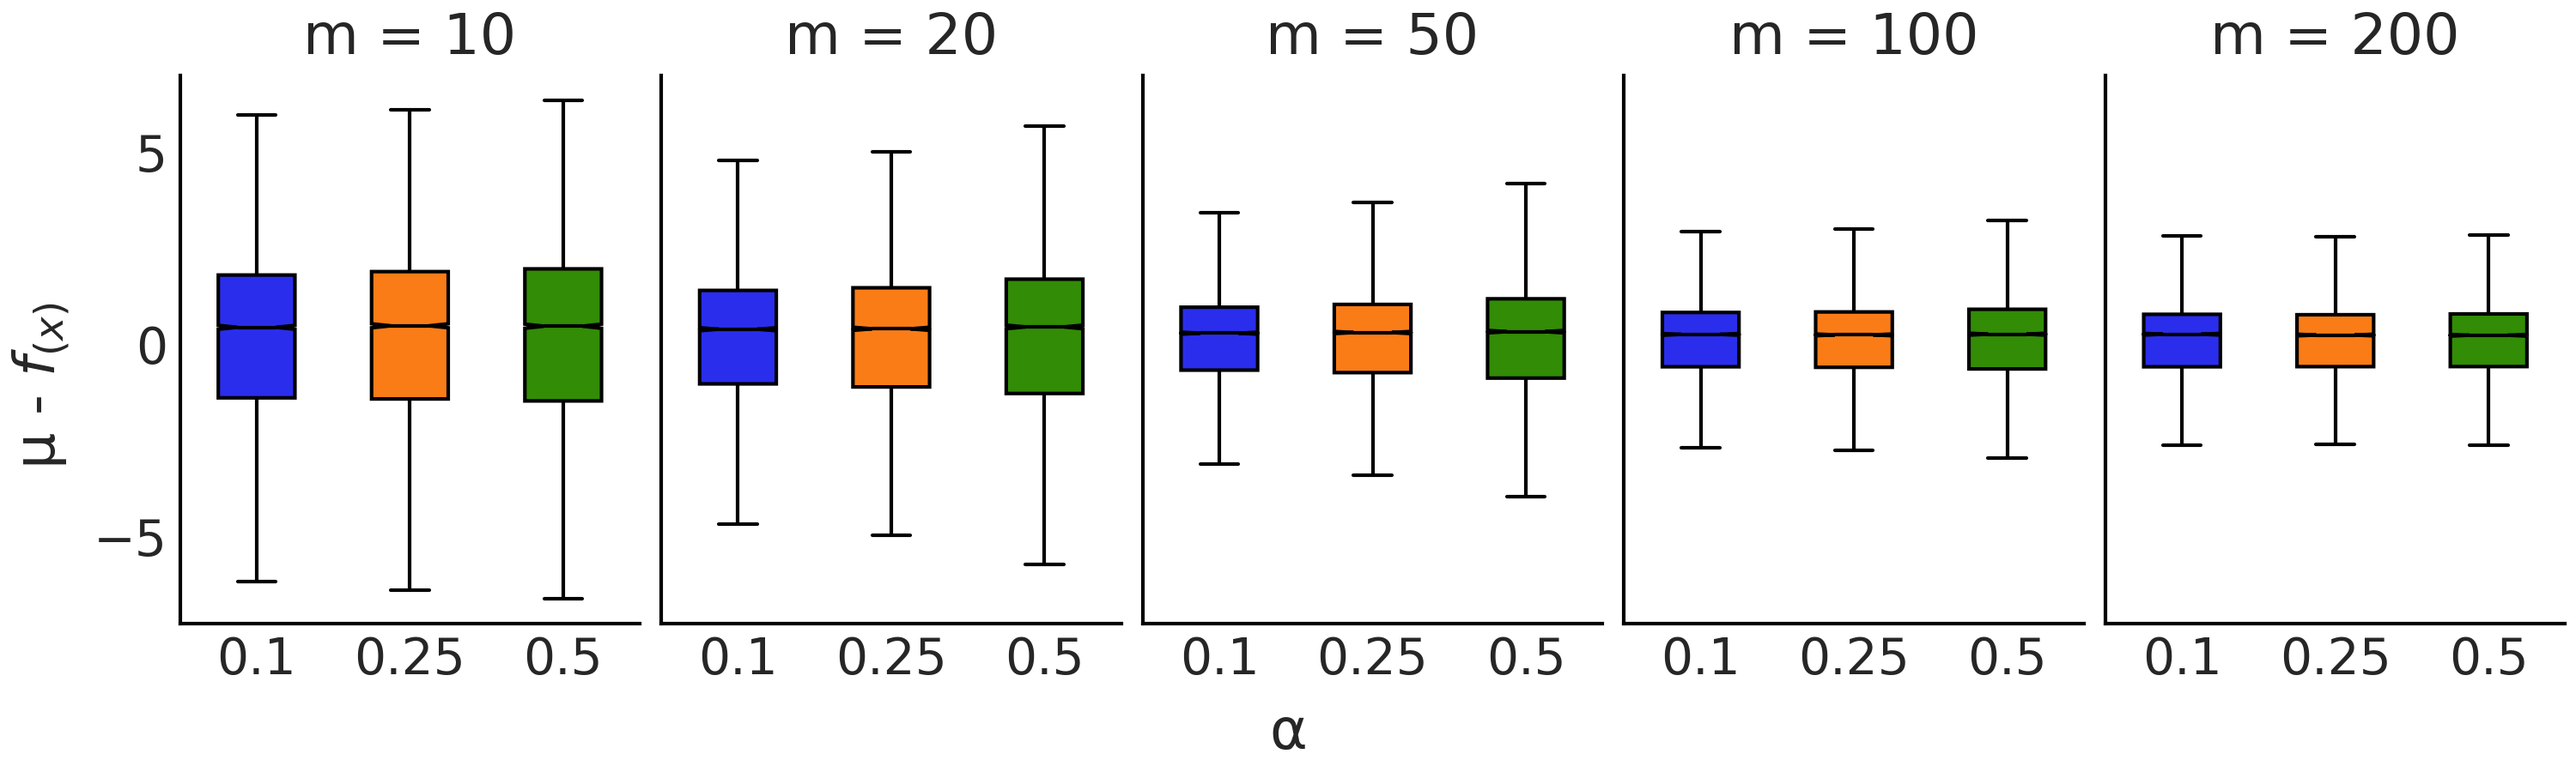
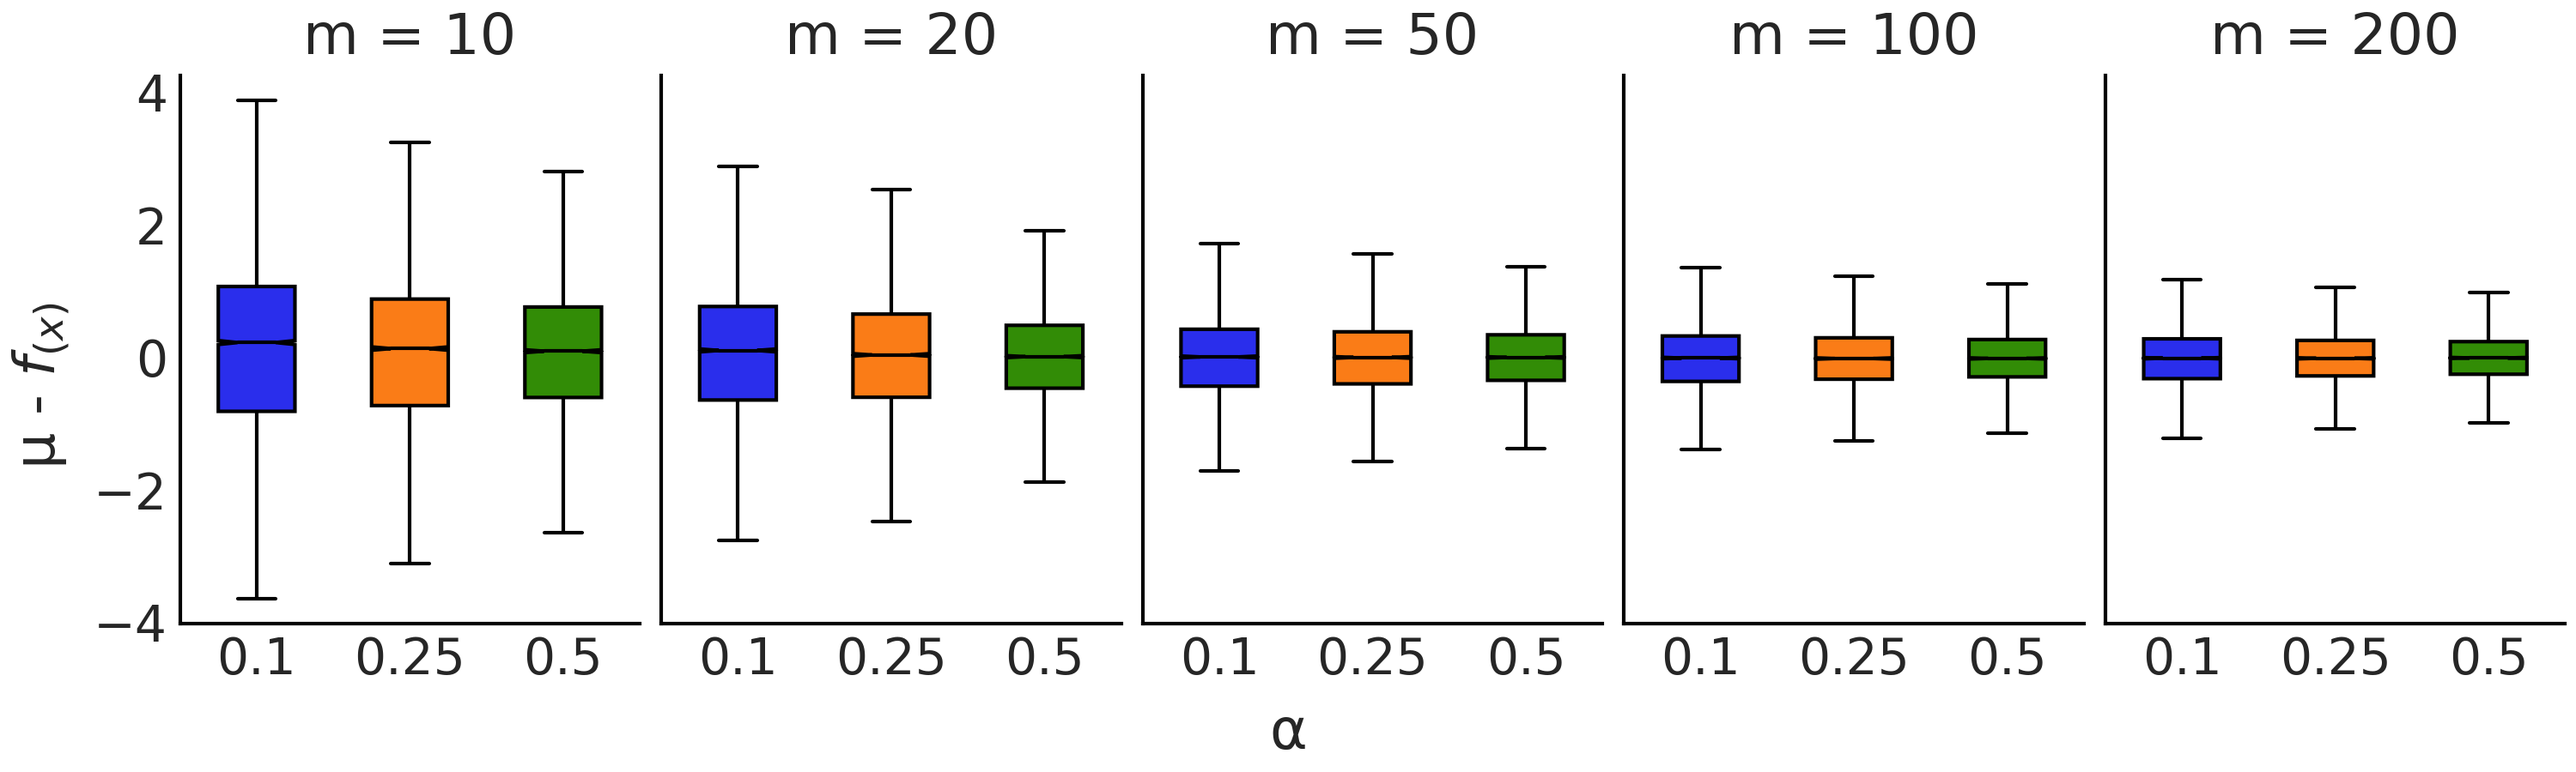
update friedman i4 more samples

diff --git a/experiments/friedman_i4sample.py b/experiments/friedman_i4sample.py
@@ -8,8 +8,8 @@ import arviz as az
 import matplotlib.pyplot as plt
 import numpy as np
 import pymc as pm
-import pymc_experimental as pmx
-from pymc_experimental.bart.pgbart import compute_prior_probability
+import pymc_bart as pmb
+from pymc_bart.pgbart import compute_prior_probability
 import pandas as pd
 
 # Configuration
@@ -44,9 +44,9 @@ idatas_at = {
 for m in trees:
     for alpha in alphas:
         with pm.Model() as model:
-            μ = pmx.BART("μ", X, Y, m=m, alpha=alpha)
+            μ = pmb.BART("μ", X, Y, m=m, alpha=alpha)
             σ = pm.HalfNormal("σ", 1)
-            y = pm.Normal("y", μ, σ, observed=f_x)
+            y = pm.Normal("y", μ, σ, observed=Y)
             idata = pm.sample(chains=4, random_seed=RANDOM_SEED)
             idatas_at[str(m)][str(alpha)] = idata
 
@@ -113,7 +113,7 @@ for m in trees:
             for sample in chain:
                 for tree in sample:
                     index = max(tree.item().tree_structure.keys())
-                    tmp_list.append(pmx.bart.tree.BaseNode(index).depth)
+                    tmp_list.append(pmb.tree.BaseNode(index).depth)
         trees_length[f"{m}"][f"{alpha}"] = pd.Series(tmp_list)
 
 
